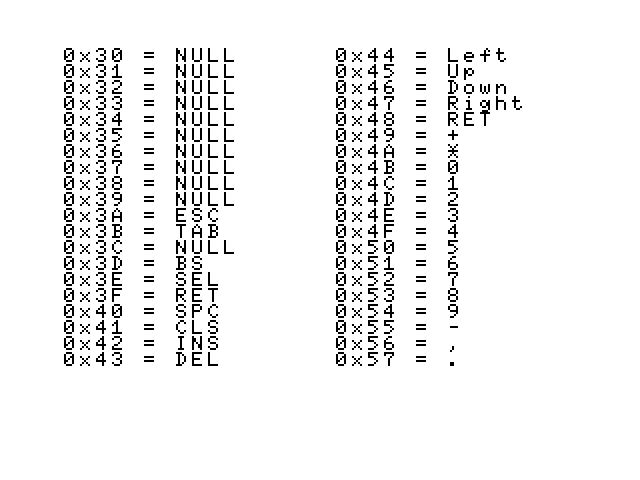
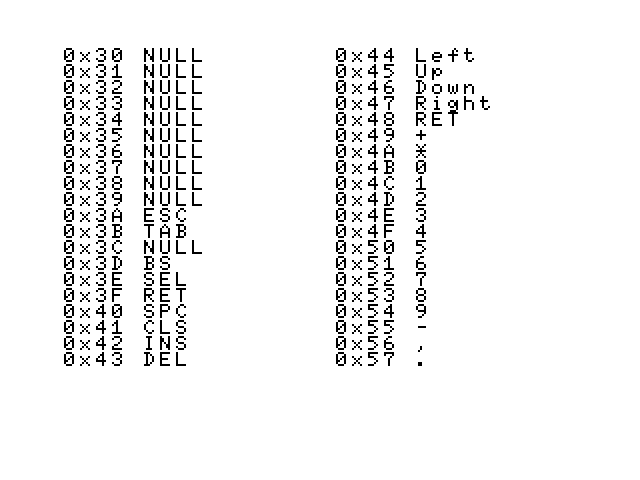
fix BASIC program

Changed region(s): [[0.2188, 0.0938, 0.375, 0.7812], [0.625, 0.0938, 0.8125, 0.6875]]

diff --git a/keyboard/text-to-table.py b/keyboard/text-to-table.py
@@ -101,10 +101,10 @@ for line in file_in.readlines():
 	name = hex_to_symbol(l[1].lower()) # Код символа в режиме 1
 	if l0_dec < 68:
 	    # Колонка 1
-	    basic_l = (str(l0_dec + 10) + ' locate 0,'+ str(l0_dec - 48) + ': ? "' + l0 + ' = ' + name)
+	    basic_l = (str(l0_dec + 10) + ' locate 0,'+ str(l0_dec - 48) + ': ? "' + l0 + ' ' + name)
 	else:
 	    # Колонка 2
-	    basic_l = (str(l0_dec + 10) + ' locate 17,'+ str(l0_dec - 68) + ': ? "' + l0 + ' = ' + name)
+	    basic_l = (str(l0_dec + 10) + ' locate 17,'+ str(l0_dec - 68) + ': ? "' + l0 + ' ' + name)
     # Формирование программы
     data_out = data_out + basic_l + ';' + basic_line_end
 # Дополнительные строки программы
